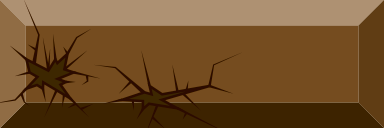
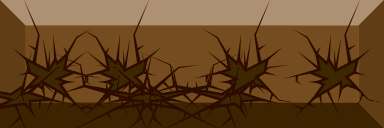
Chagne: brick sprites

diff --git a/game/objects/bricks.py b/game/objects/bricks.py
@@ -13,8 +13,8 @@ class Bricks(pygame.sprite.Sprite):
         pygame.sprite.Sprite.__init__(self)
         self.x = x
         self.y = y
-        # either 200, 400, 500 or 800
-        self.health = random.randint(1, 4) * 2 * 100
+        # either 400, 500 or 600
+        self.health = random.randint(4, 6) * 100
         self.ori_health = self.health
         self.type = VH
         if random.random() > 0.94:
@@ -39,7 +39,7 @@ class Bricks(pygame.sprite.Sprite):
         if speed <= 3:
             return 0
 
-        self.health -= old_div(speed, MAX_BALL_SPEED) * 90
+        self.health -= old_div(speed, MAX_BALL_SPEED) * 200
 
         if self.type == 1:
             self.image = brick_imgs_h[self.get_health_index()]
@@ -55,12 +55,12 @@ class Bricks(pygame.sprite.Sprite):
                 blast_anim1, blast_anim1_size, 3, False, (self.x, self.y))
 
             self.kill()
-            return self.health * 200
+            return self.ori_health * 0.5
         else:
             return 0
 
     def get_health_index(self):
         health_index = self.health // 100
-        if health_index > 9:
-            health_index = 9
+        if health_index > 7:
+            health_index = 7
         return int(health_index)

diff --git a/game/global_objects/constants.py b/game/global_objects/constants.py
@@ -198,7 +198,7 @@ file_list = [x for x in range(33, 127) if x != 36]
 
 brick_imgs_h = []
 brick_imgs_v = []
-for i in range(0, 9):
+for i in range(0, 7):
     temp = pygame.image.load('game/assets/bricks/brick' + str(i) + '.png')
     temp_h = pygame.transform.scale(
         temp, (horizontal_brick_width, horizontal_brick_height))
